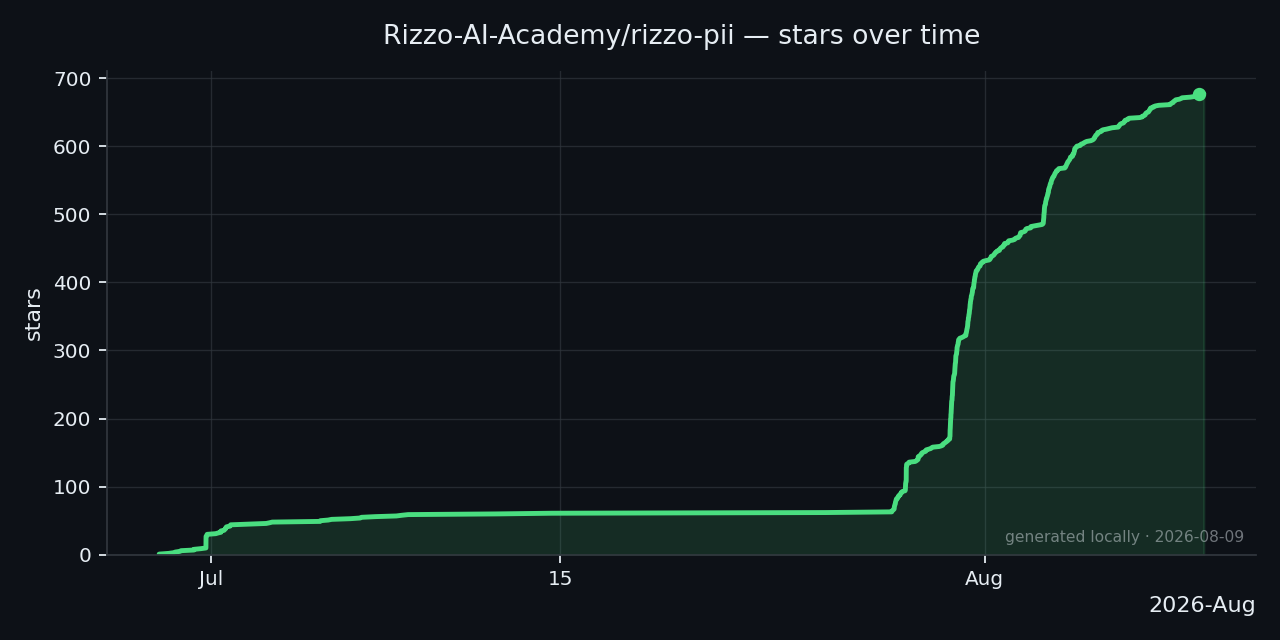
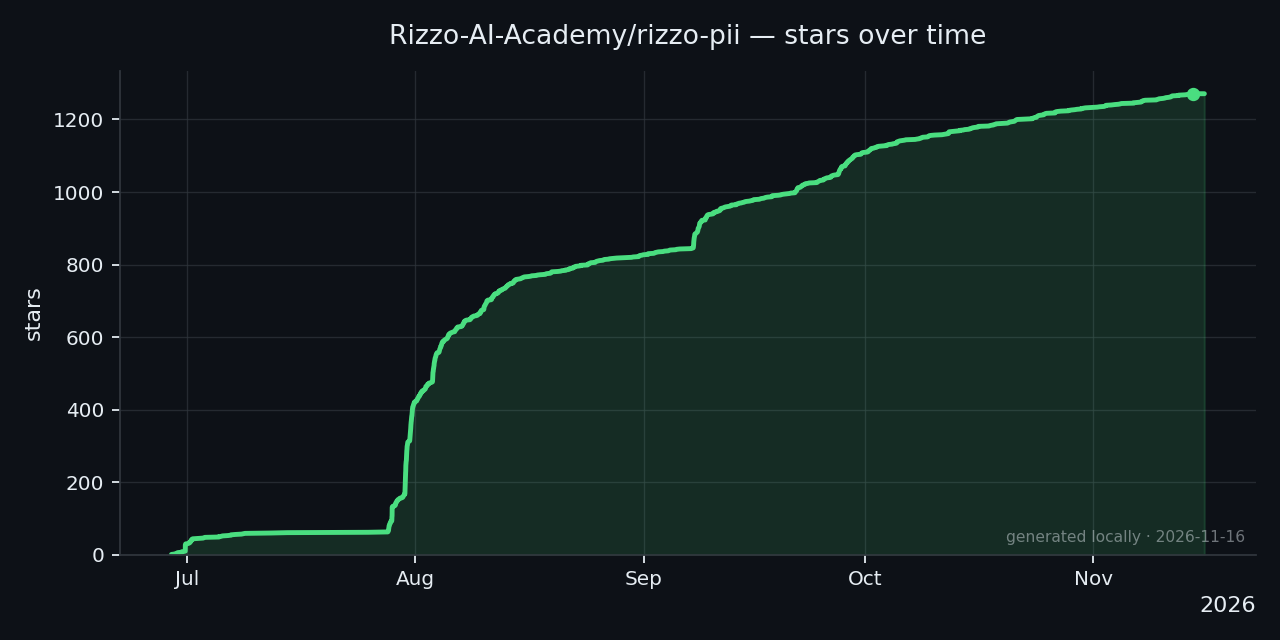
docs(readme): screenshot dell'app con il PDF censurato + grafico delle stelle aggiornato
- report/images/app_ocr_pdf_censurato.png sotto l'introduzione: documento originale
  a sinistra, PDF censurato a destra.
- docs/star_history_{light,dark}.png rigenerati con scripts/plot_star_history.py
  (1.271 stelle al 2026-11-16).

diff --git a/README.md b/README.md
@@ -72,6 +72,14 @@ The hedgehog mascot does one job: it grabs your document, blacks out every ident
 </tr>
 </table>
 
+<div align="center">
+
+<img src="report/images/app_ocr_pdf_censurato.png" alt="The Rizzo PII desktop app: on the left the original PDF of a sample NDA, on the right the same document redacted, every personal data item replaced by a purple placeholder box such as [FULLNAME_1] or [CF_1]" width="900" />
+
+<sub>The app: the original document on the left, the redacted PDF on the right — text PDFs, scans and photos alike, all processed locally.</sub>
+
+</div>
+
 ---
 
 ## The problem: convenience is leaking your data
